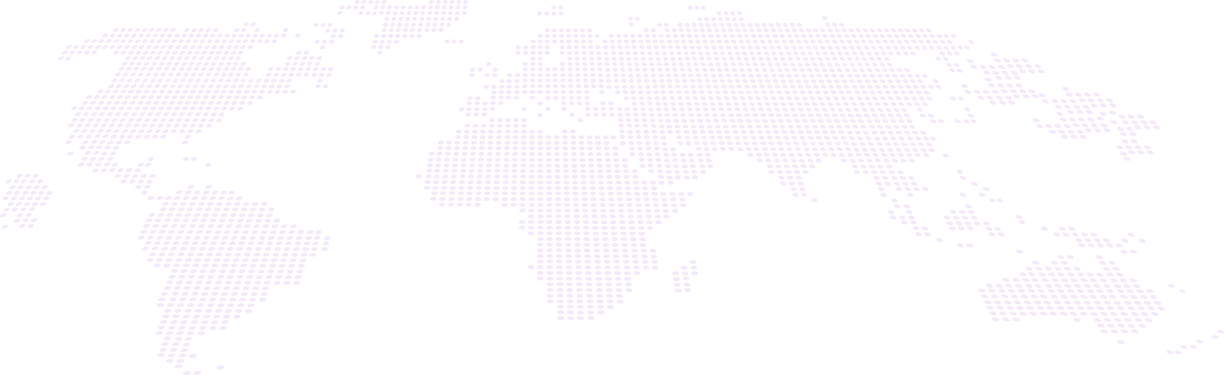
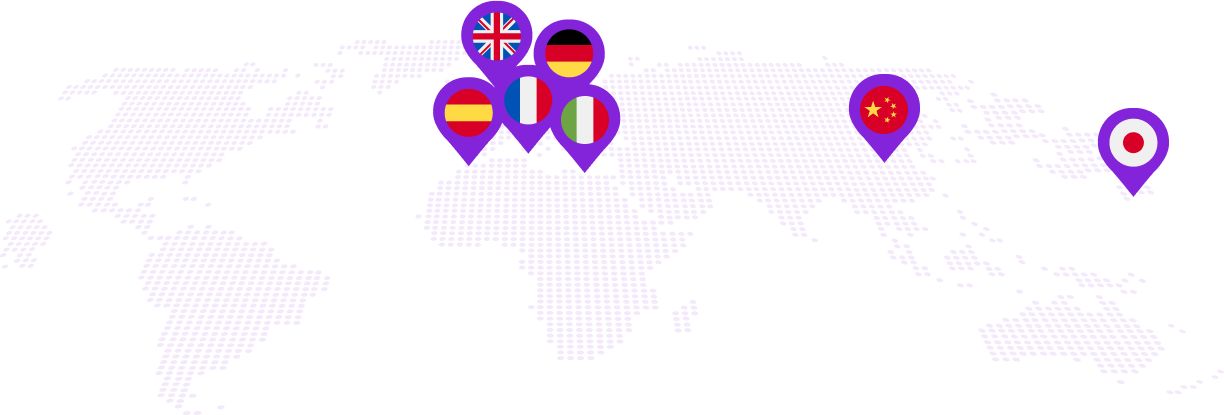
almost done with the majorLangages section

Changed region(s): [[0.3415, 0.0, 0.5278, 0.4107], [0.683, 0.176, 0.7761, 0.3813], [0.8693, 0.264, 0.9624, 0.4693]]

diff --git a/src/components/homecomponents/Herosection.vue b/src/components/homecomponents/Herosection.vue
@@ -1,8 +1,8 @@
 <template>
   <div
-    class="bg-[#8324DB] bg-opacity-10 w-full h-[100vh] flex justify-between pl-12 p-24 rounded-tr-[180px]"
+    class="bg-[#8324DB] bg-opacity-10 w-full h-[110vh] md:flex justify-between pl-14 pt-18 p-24 rounded-tr-[180px]"
   >
-    <div class="w-[65%]">
+    <div class="md:w-[70%]">
       <h1 class="font-bold text-[64px] pb-3">
         Have
         <span class="text-[#AC6CE7] leading-[80px] tracking-normal">fun</span>
@@ -18,7 +18,7 @@
         <img :src="playStore" alt="Play Store" class="w-40 h-auto ml-4" />
       </div>
     </div>
-    <div class="w-[25%]">
+    <div class="md:w-[25%]">
       <img :src="heroimg" alt="Hero Image" class="w-full h-auto" />
     </div>
   </div>

diff --git a/index.html b/index.html
@@ -1,10 +1,16 @@
-<!doctype html>
+<!DOCTYPE html>
 <html lang="en">
   <head>
     <meta charset="UTF-8" />
     <link rel="icon" type="image/svg+xml" href="/vite.svg" />
     <meta name="viewport" content="width=device-width, initial-scale=1.0" />
     <title>Vite + Vue</title>
+    <link rel="preconnect" href="https://fonts.googleapis.com" />
+    <link rel="preconnect" href="https://fonts.gstatic.com" crossorigin />
+    <link
+      href="https://fonts.googleapis.com/css2?family=Open+Sans:ital,wght@0,300..800;1,300..800&display=swap"
+      rel="stylesheet"
+    />
   </head>
   <body>
     <div id="app"></div>

diff --git a/src/App.vue b/src/App.vue
@@ -3,6 +3,7 @@
     <!-- Navbar -->
     <Navbar />
     <Herosection />
+    <MajorLanguages />
     
     <!-- Router View: This will display the active route component -->
     <router-view />
@@ -13,12 +14,15 @@
 // Importing the Navbar component
 import Navbar from './components/layout/navbar.vue';
 import Herosection from './components/homecomponents/Herosection.vue';	
+import MajorLanguages from './components/homecomponents/MajorLanguages.vue';
 
 export default {
   name: 'App',
   components: {
     Navbar,
-    Herosection
+    Herosection,
+    MajorLanguages,
+
   },
 };
 </script>

diff --git a/src/components/homecomponents/MajorLanguages.vue b/src/components/homecomponents/MajorLanguages.vue
@@ -1,0 +1,13 @@
+<template>
+  <div
+    class="w-full h-screen bg-purple-800 bg-fit bg-no-repeat bg-center p-10 bg-[50%] rounded-bl-[200px]"
+    :style="{ backgroundImage: `url(${mapbase})` }"
+  >
+    <h1 class="text-white text-bold text-[48px]">Explore Major Languages <div class="text-[#FFDF81]">on the go</div></h1>
+  </div>
+</template>
+
+<script setup>
+import mapbase from '/mapbase.png'; // Make sure the image is inside 'src/assets'
+
+</script>

diff --git a/tailwind.config.js b/tailwind.config.js
@@ -1,12 +1,12 @@
 /** @type {import('tailwindcss').Config} */
 export default {
-  content: [
-    "./index.html",
-    "./src/**/*.{vue,js,ts,jsx,tsx}",
-  ],
+  content: ["./index.html", "./src/**/*.{vue,js,ts,jsx,tsx}"],
   theme: {
-    extend: {},
+    extend: {
+      fontFamily: {
+        sans: ["Open Sans", "sans-serif"],
+      },
+    },
   },
   plugins: [],
-}
-
+};
